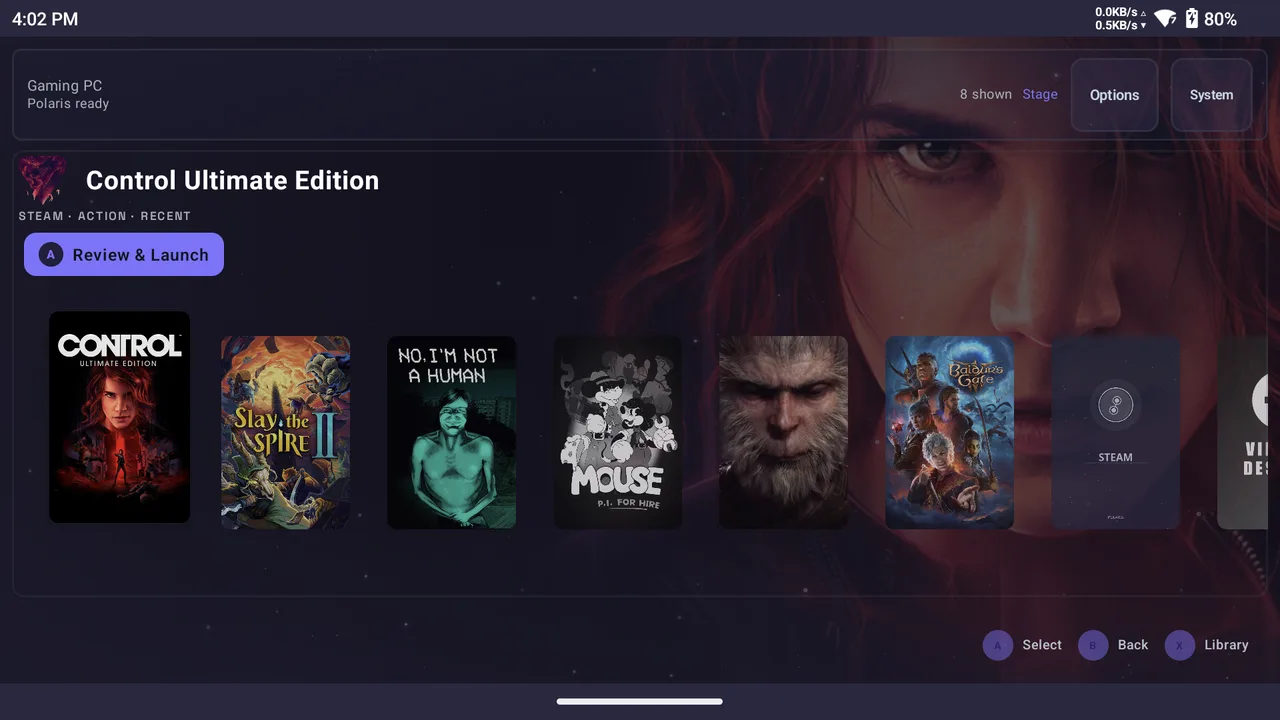
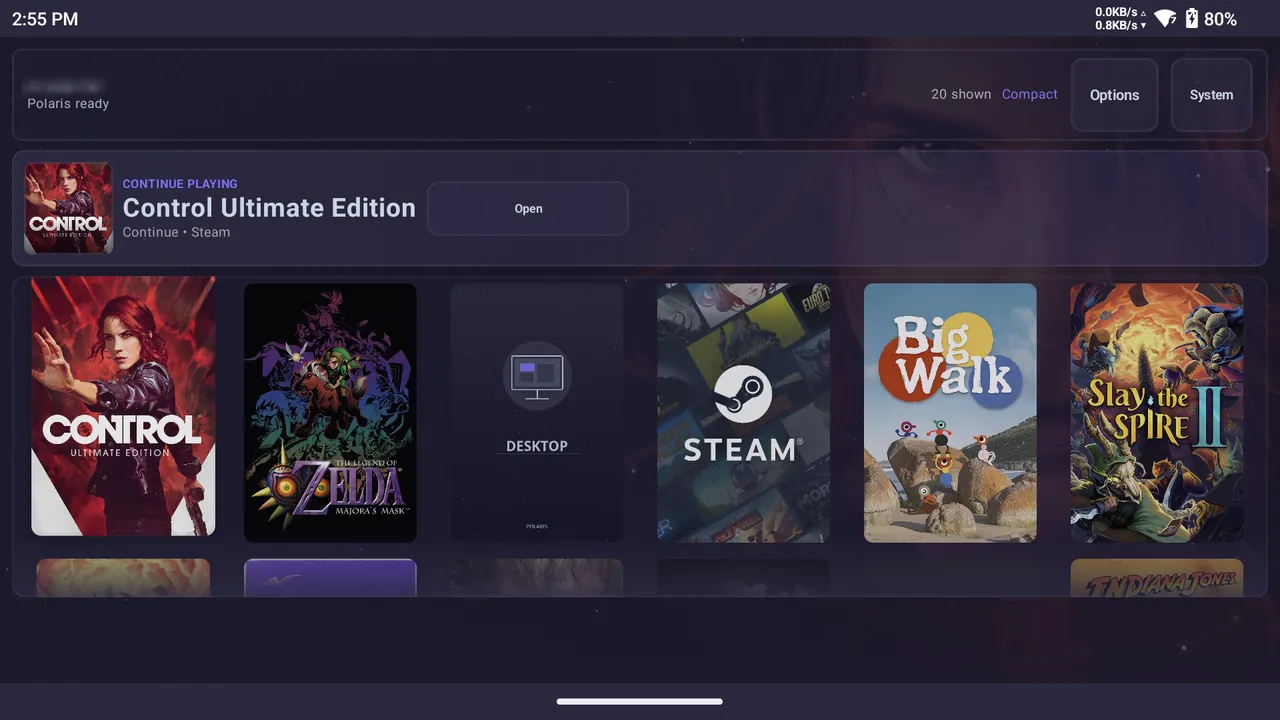
docs(readme): show the Compact library instead of the Stage view
The Library screenshot is now the Compact layout papi captured on
2026-08-17: twenty entries on one screen with Control Ultimate Edition
waiting in the Continue playing rail. It replaces the Stage view, which
the theme cycler feedback already found less honest about what the client
actually looks like, and the alt text now names the layout that is in the
frame rather than the one that used to be.

The capture came off the production host rather than the isolated
exact-release service, so the header host name is pixelated in place
before publish, the same treatment the Servers cycler frames already use.
papi-ux.com/nova/ publishes the identical file, and the provenance
manifest this README links records the redaction against its raw source.

diff --git a/README.md b/README.md
@@ -32,7 +32,7 @@ play.
 > the supported client boundary; Nova is not a Windows, macOS, iOS, or native
 > Linux client.
 
-![Nova Polaris Aurora Library in Stage view with Control Ultimate Edition selected against its landscape artwork](docs/screenshots/nova-library-control-aurora-v1.3.6.webp)
+![Nova Polaris Aurora Library in Compact layout with Control Ultimate Edition ready to continue above a grid of twenty entries](docs/screenshots/nova-library-control-aurora-v1.3.6.webp)
 
 ## A compatible client, with more context
 
